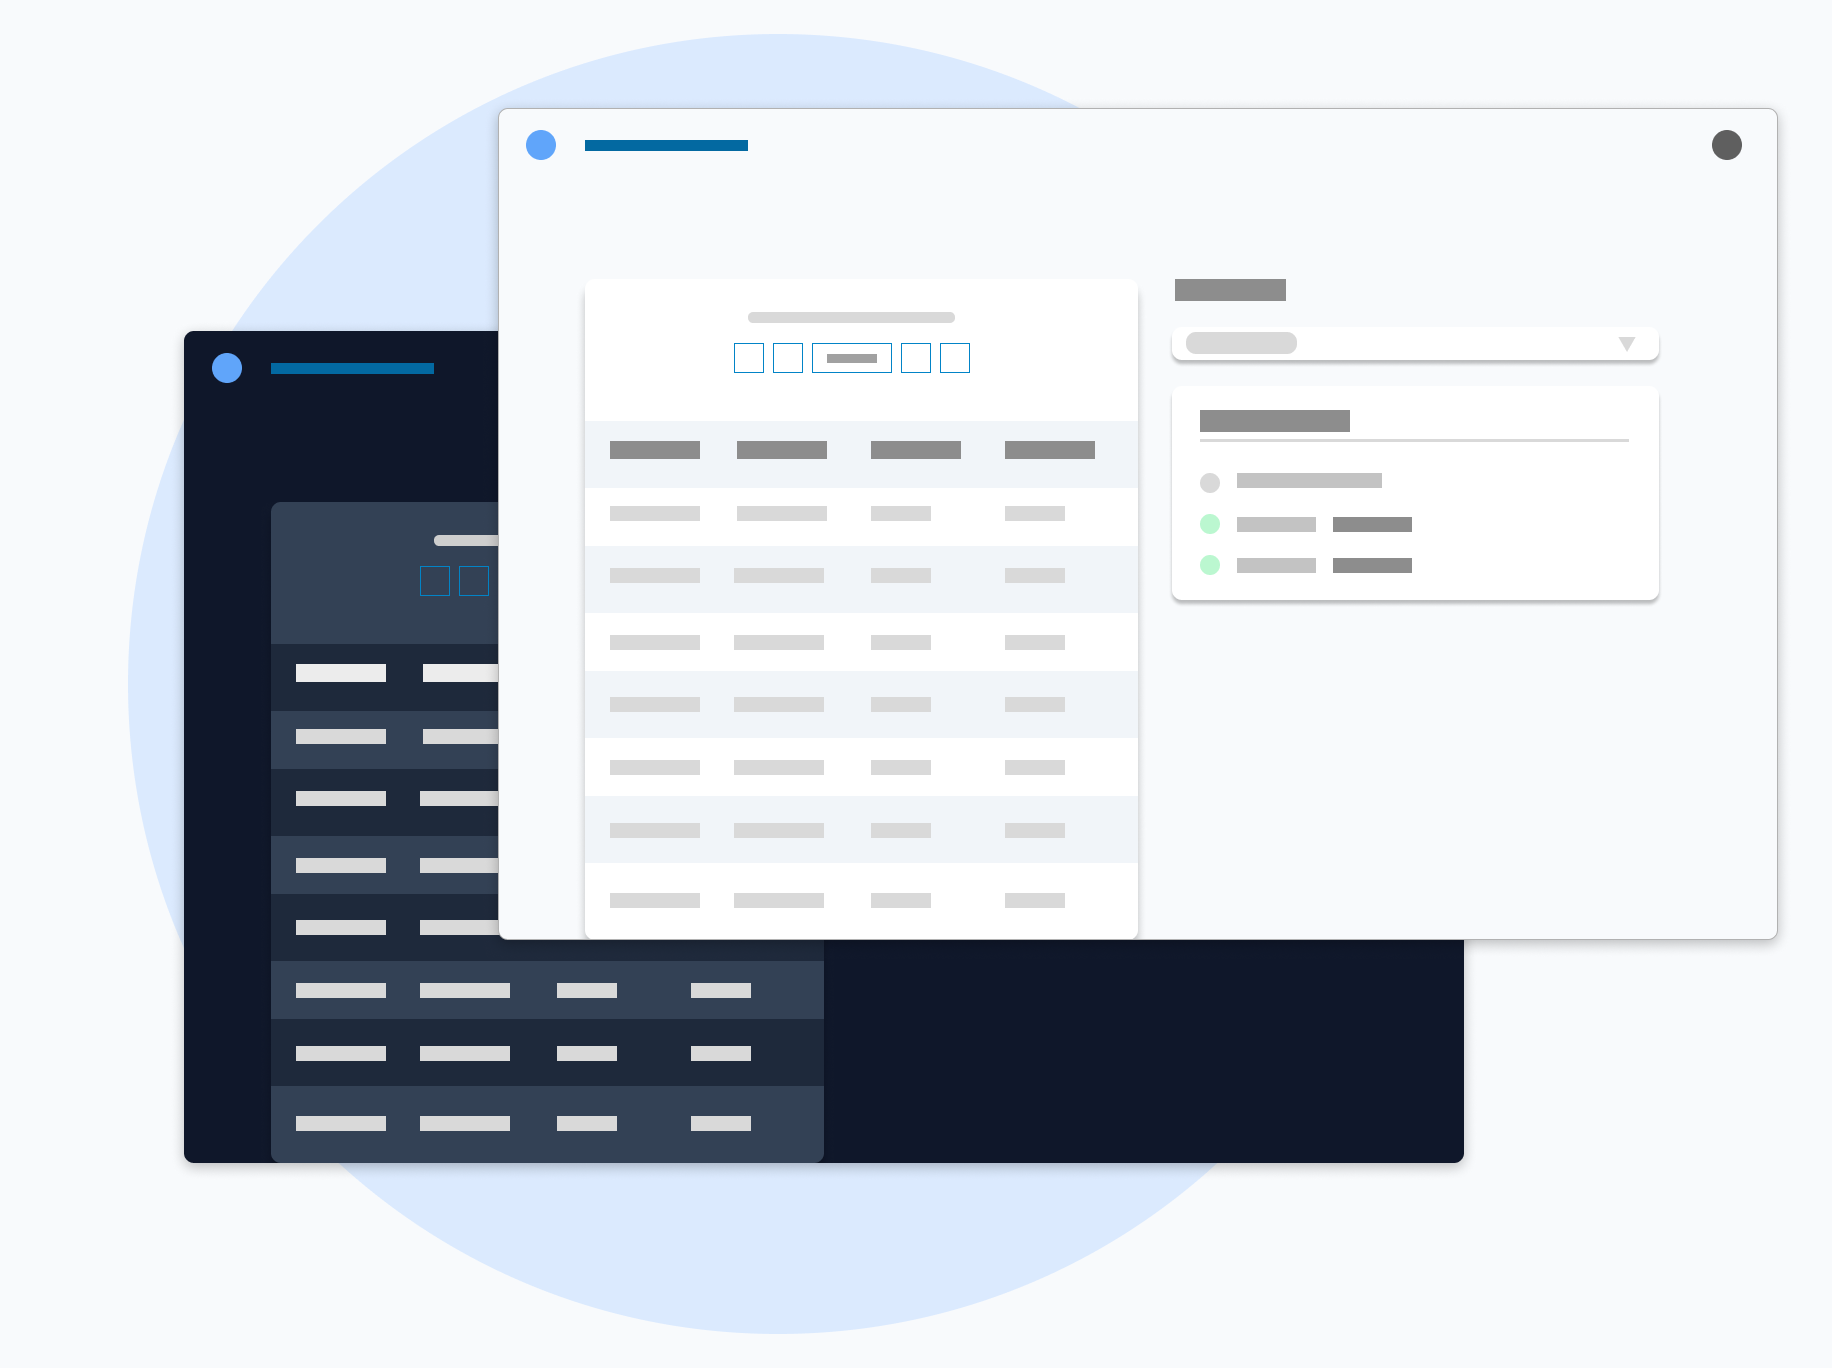
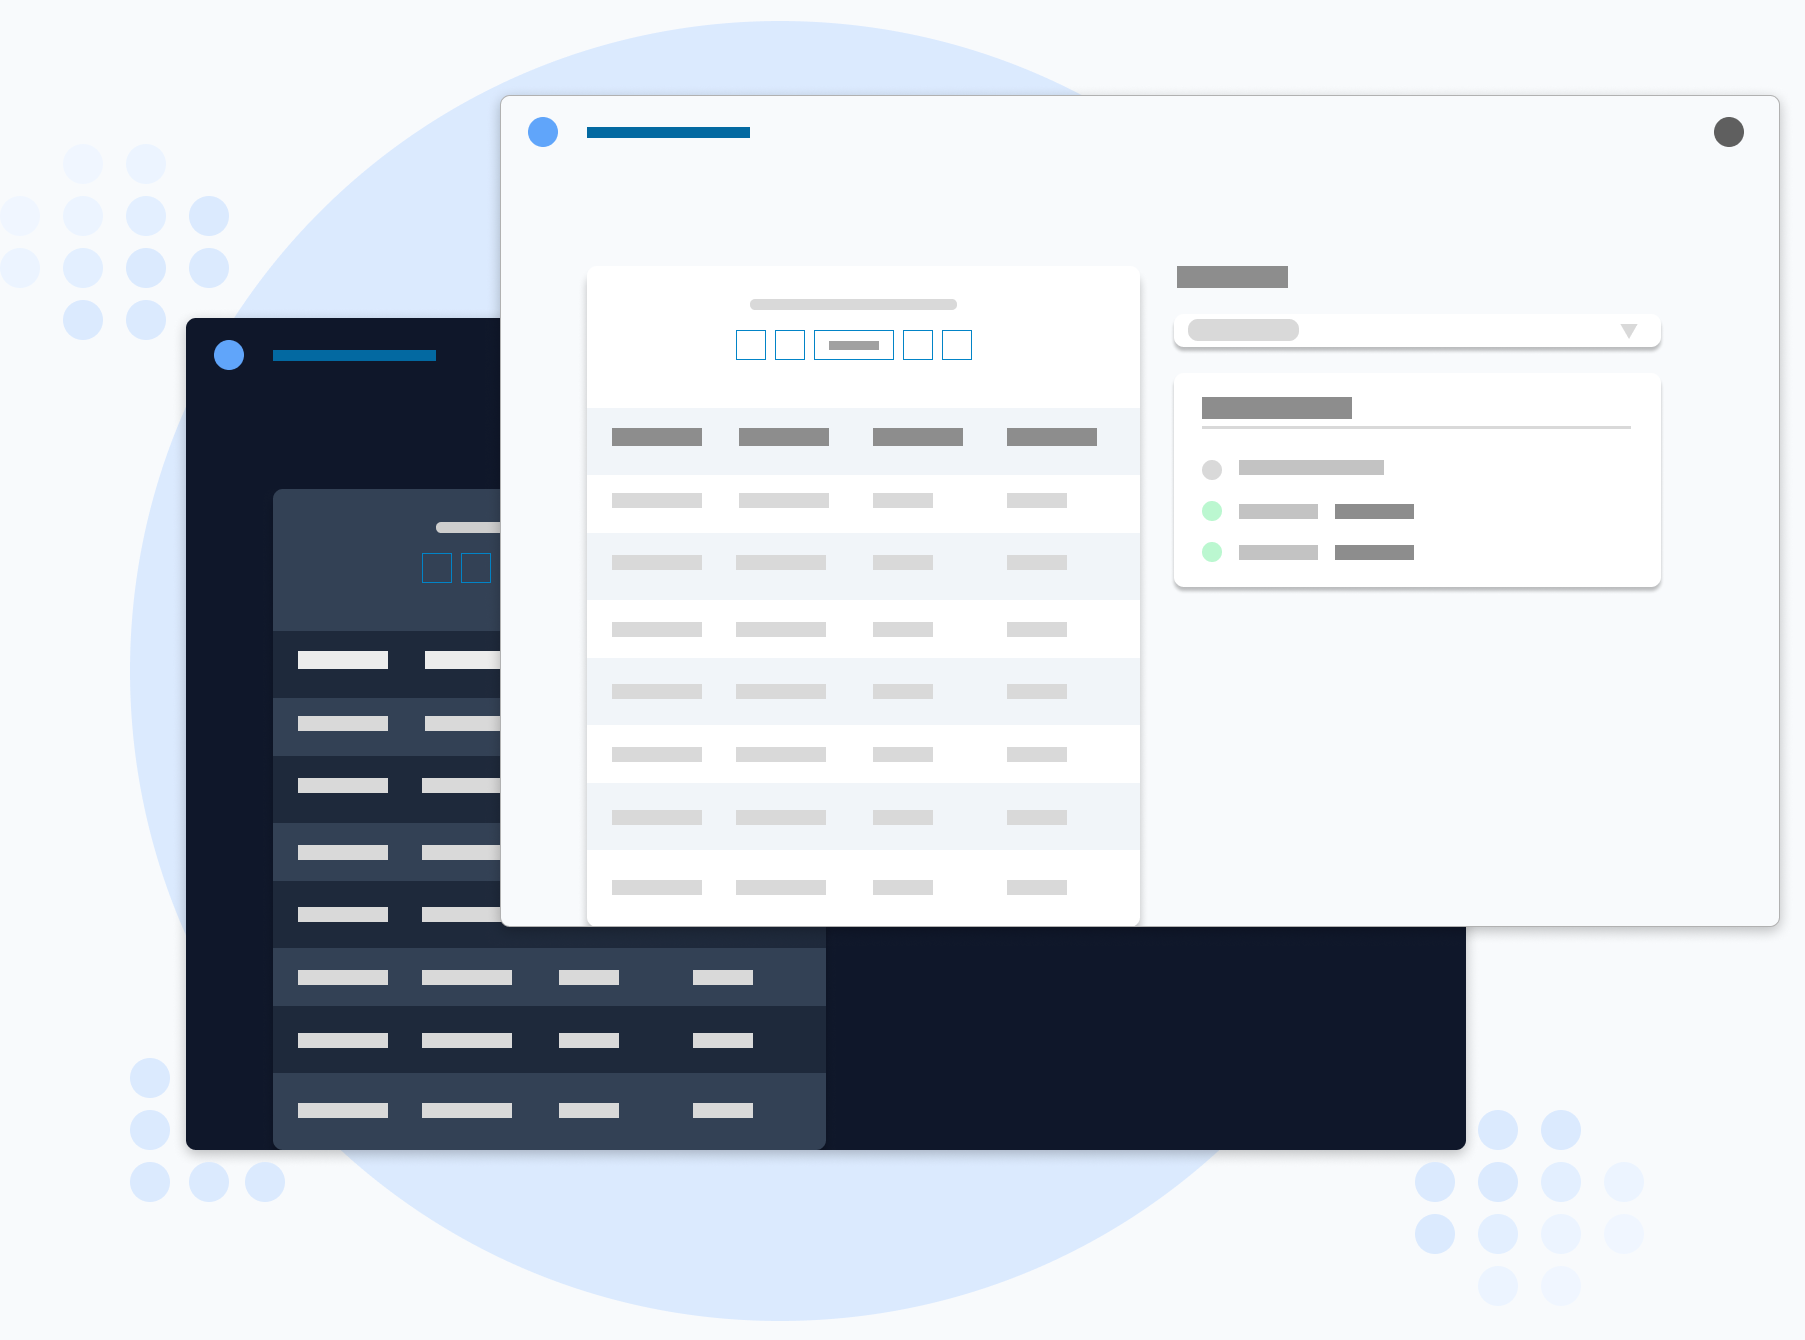
Fix main page bg image

diff --git a/src/components/Home.tsx b/src/components/Home.tsx
@@ -11,6 +11,7 @@ import apiService from "../services/api-service";
 import { Loading } from "./Loading";
 import { useEffect } from "react";
 import SkeletonLoading from "./SkeletonLoading";
+import Navbar from "./Navbar";
 
 interface ChildPropsHome {
   trips: ITrip[];
@@ -56,42 +57,48 @@ const Home = ({
   };
 
   return (
-    <div className="flex flex-col gap-4 lg:flex-row">
-      {/* trips view */}
-      <div className="drop-shadow-lg lg:w-3/4 xl:w-1/2">
-        <div
-          className="flex flex-col gap-2 rounded-t-lg bg-white p-4 dark:bg-slate-700 
-        sm:items-center"
-        >
-          <div>
-            <h3 className="text-xl tracking-wide dark:text-slate-100">
-              Browse journeys
-            </h3>
+    <div
+      className="min-h-screen bg-[url('/src/assets/light.png')] dark:bg-gray-900
+    dark:bg-[url('/src/assets/dark.png')]"
+    >
+      <Navbar />
+      <div className="container mx-auto flex flex-col gap-4 p-3 py-10 lg:flex-row">
+        {/* trips view */}
+        <div className="drop-shadow-lg lg:w-3/4 xl:w-1/2">
+          <div
+            className="flex flex-col gap-2 rounded-t-lg bg-white p-4 dark:bg-slate-700
+          sm:items-center"
+          >
+            <div>
+              <h3 className="text-xl tracking-wide dark:text-slate-100">
+                Browse journeys
+              </h3>
+            </div>
+            <div className="flex gap-1">
+              <Pagination
+                goToPage={goToPage}
+                totalPageCount={totalPageCount}
+                page={page}
+              />
+            </div>
           </div>
-          <div className="flex gap-1">
-            <Pagination
-              goToPage={goToPage}
-              totalPageCount={totalPageCount}
-              page={page}
+          {loading ? <Loading /> : <Table trips={trips} page={page} />}
+        </div>
+        {/* stations view */}
+        <div className="flex flex-grow flex-col gap-5 rounded-lg">
+          <div>
+            <Select
+              stations={stations}
+              selected={selected}
+              setSelected={setSelected}
             />
           </div>
+          {skeletonLoading ? (
+            <SkeletonLoading />
+          ) : (
+            <Station selected={selected} stationStats={stationStats} />
+          )}
         </div>
-        {loading ? <Loading /> : <Table trips={trips} page={page} />}
-      </div>
-      {/* stations view */}
-      <div className="flex flex-grow flex-col gap-5 rounded-lg">
-        <div>
-          <Select
-            stations={stations}
-            selected={selected}
-            setSelected={setSelected}
-          />
-        </div>
-        {skeletonLoading ? (
-          <SkeletonLoading />
-        ) : (
-          <Station selected={selected} stationStats={stationStats} />
-        )}
       </div>
     </div>
   );

diff --git a/src/components/Navbar.tsx b/src/components/Navbar.tsx
@@ -2,6 +2,7 @@ import { SunIcon } from "@heroicons/react/24/solid";
 import { MoonIcon } from "@heroicons/react/24/solid";
 import { useState } from "react";
 import { GlobeAltIcon } from "@heroicons/react/24/solid";
+import { Link } from "react-router-dom";
 
 const Navbar = () => {
   const [theme, setTheme] = useState(true);
@@ -12,18 +13,20 @@ const Navbar = () => {
   };
   return (
     <nav
-      className="relative flex items-center justify-between bg-center px-2 py-2
+      className="flex items-center justify-between bg-center px-2 py-2
     dark:text-gray-300 sm:px-10"
     >
-      <GlobeAltIcon className="absolute left-3 top-0 h-8 w-8 text-sky-700" />
-      <div>
-        <h1
-          className="logo-font ms-8 bg-gradient-to-r from-sky-700 to-teal-800 bg-clip-text 
-        text-xl tracking-wider text-transparent dark:to-teal-600 sm:ms-0 sm:text-2xl"
+      <div className="flex">
+        <GlobeAltIcon className="h-8 w-8 text-sky-700" />
+        <Link
+          to="/solita-front"
+          className="bg-gradient-to-r from-sky-700 to-teal-800 bg-clip-text
+          text-2xl tracking-wide text-transparent dark:to-teal-600"
         >
           City Bike Helsinki
-        </h1>
+        </Link>
       </div>
+
       <div>
         {theme ? (
           <button

diff --git a/index.html b/index.html
@@ -4,11 +4,9 @@
     <meta charset="UTF-8" />
     <link rel="icon" type="image/svg+xml" href="/vite.svg" />
     <meta name="viewport" content="width=device-width, initial-scale=1.0" />
-    <title>Vite + React + TS</title>
+    <title>City Bike Helsinki</title>
   </head>
-  <body
-    class="font-lg bg-slate-50 bg-[url('/src/assets/light.png')] font-sans dark:bg-gray-900 dark:bg-[url('/src/assets/dark.png')]"
-  >
+  <body class="font-lg bg-slate-50 font-sans">
     <div id="root"></div>
     <script type="module" src="/src/main.tsx"></script>
   </body>

diff --git a/src/App.css b/src/App.css
@@ -1,5 +1,3 @@
-@import url("https://fonts.googleapis.com/css2?family=Instrument+Serif:ital@1&display=swap");
-
 .main-animation {
   animation: page-animation 1s forwards;
 }
@@ -20,8 +18,4 @@ th {
 
 td {
   padding: 1rem;
-}
-
-.logo-font {
-  font-family: "Instrument Serif", serif;
 }
